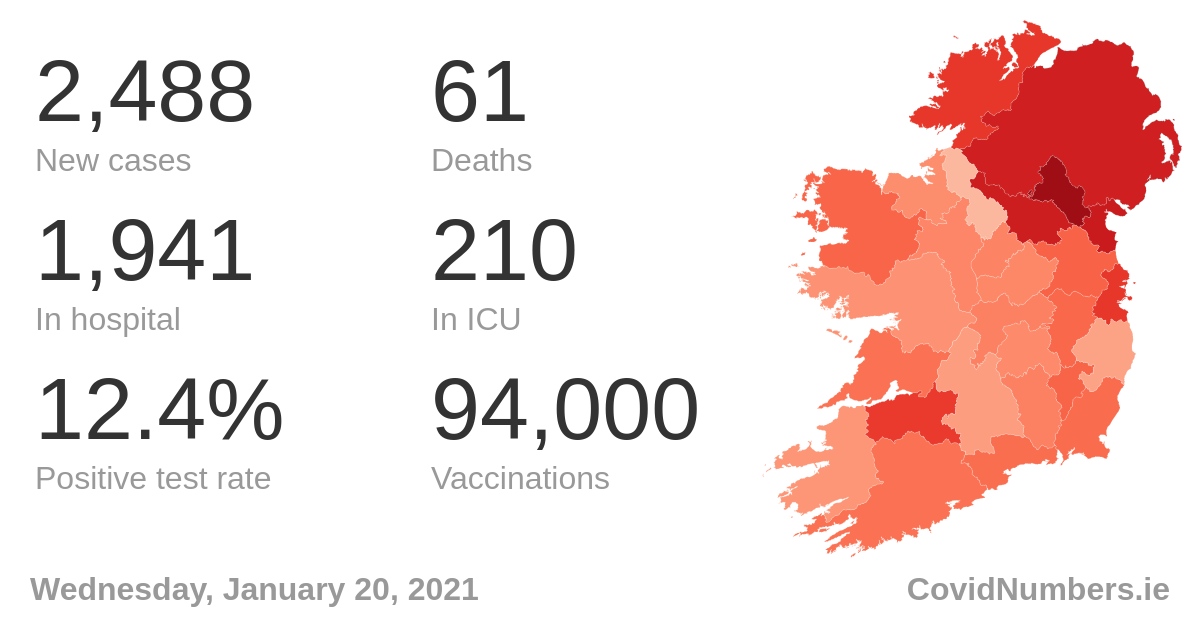
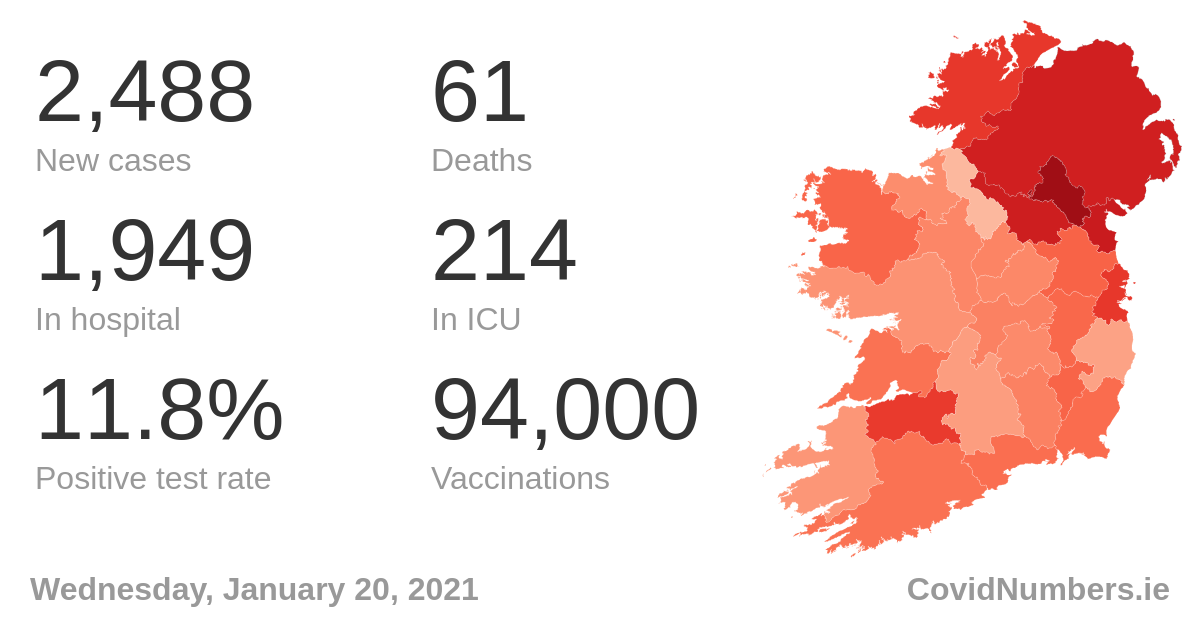
deploy: dc9766de10b4cccc55bc07b449ddbdfe9642bf8a

Changed region(s): [[0.0617, 0.6051, 0.185, 0.6959], [0.4317, 0.3328, 0.4933, 0.4538], [0.1542, 0.3328, 0.2158, 0.4538]]

diff --git a/index.html b/index.html
@@ -7,11 +7,11 @@
       <meta name="description" content="Ireland's latest Covid-19 numbers: 2,488 cases, 61 deaths, 94,000 vaccinations">
       <meta property="og:title" content="COVID-19 Ireland Numbers - CovidNumbers.ie">
       <meta property="og:description" content="Ireland's latest Covid-19 numbers: 2,488 cases, 61 deaths, 94,000 vaccinations">
-      <meta property="og:image" content="https://covidnumbers.ie/covid-stats-ireland.png?1611197217832">
+      <meta property="og:image" content="https://covidnumbers.ie/covid-stats-ireland.png?1611247692977">
       <meta property="og:url" content="https://covidnumbers.ie">
       <meta property="og:site_name" content="Covid-19 Ireland">
       <meta name="twitter:card" content="summary_large_image">
-      <meta name="twitter:image" content="https://covidnumbers.ie/covid-stats-ireland.png?1611197217832">
+      <meta name="twitter:image" content="https://covidnumbers.ie/covid-stats-ireland.png?1611247692977">
       <meta name="twitter:description" content="Ireland's latest Covid-19 numbers: 2,488 cases, 61 deaths, 94,000 vaccinations">
       <meta name="twitter:image:alt" content="Latest: 2,488 cases, 61 deaths, 94,000 vaccinations">
       <link rel="apple-touch-icon" sizes="180x180" href="/img/apple-touch-icon.png">
@@ -168,7 +168,7 @@
       </script>
     </head>
     <body>
-      <!-- Last deploy: Thu Jan 21 2021 02:46:58 GMT+0000 (Coordinated Universal Time) -->
+      <!-- Last deploy: Thu Jan 21 2021 16:48:13 GMT+0000 (Coordinated Universal Time) -->
       <main>
         <header>
           <h1>COVID-19 Ireland</h1>
@@ -264,18 +264,18 @@
               <span class="label">Deaths</span></li>
             <li class="in-hospital">
               <span class="data">
-                1,941
+                1,949
               </span>
               <span class="label">In hospital</span></li>
             <li class="in-icu">
               <span class="data">
-                210
+                214
               </span>
               <span class="label">In ICU</span></li>
-            <!-- <li class="testing-weekly">159985 <span class="label">Tests over last 7 days</span></li> -->
+            <!-- <li class="testing-weekly">154418 <span class="label">Tests over last 7 days</span></li> -->
             <li class="testing-positive">
               <span class="data">
-                12.4%
+                11.8%
               </span>
               <span class="label">7-day positive tests</span></li>
             <li class="vaccinations-total">

diff --git a/share-image/index.html b/share-image/index.html
@@ -111,18 +111,18 @@
               <span class="label">Deaths</span></li>
             <li class="in-hospital">
               <span class="data">
-                1,941
+                1,949
               </span>
               <span class="label">In hospital</span></li>
             <li class="in-icu">
               <span class="data">
-                210
+                214
               </span>
               <span class="label">In ICU</span></li>
-            <!-- <li class="testing-weekly">159985 <span class="label">Tests over last 7 days</span></li> -->
+            <!-- <li class="testing-weekly">154418 <span class="label">Tests over last 7 days</span></li> -->
             <li class="testing-positive">
               <span class="data">
-                12.4%
+                11.8%
               </span>
               <span class="label">Positive test rate</span></li>
             <li class="vaccinations-total">
